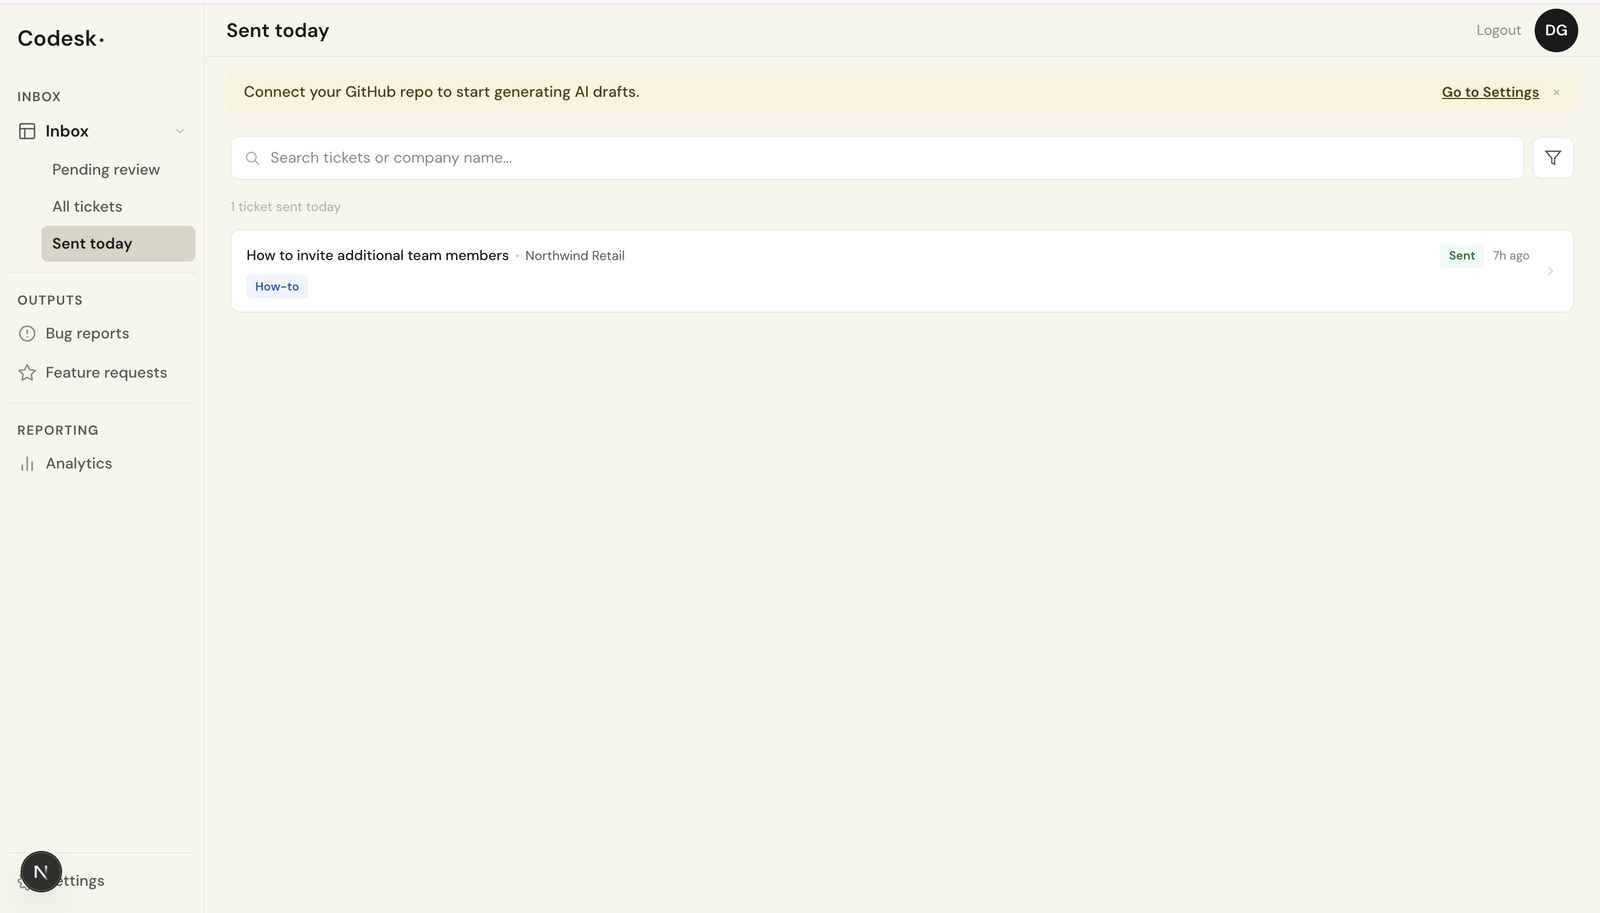
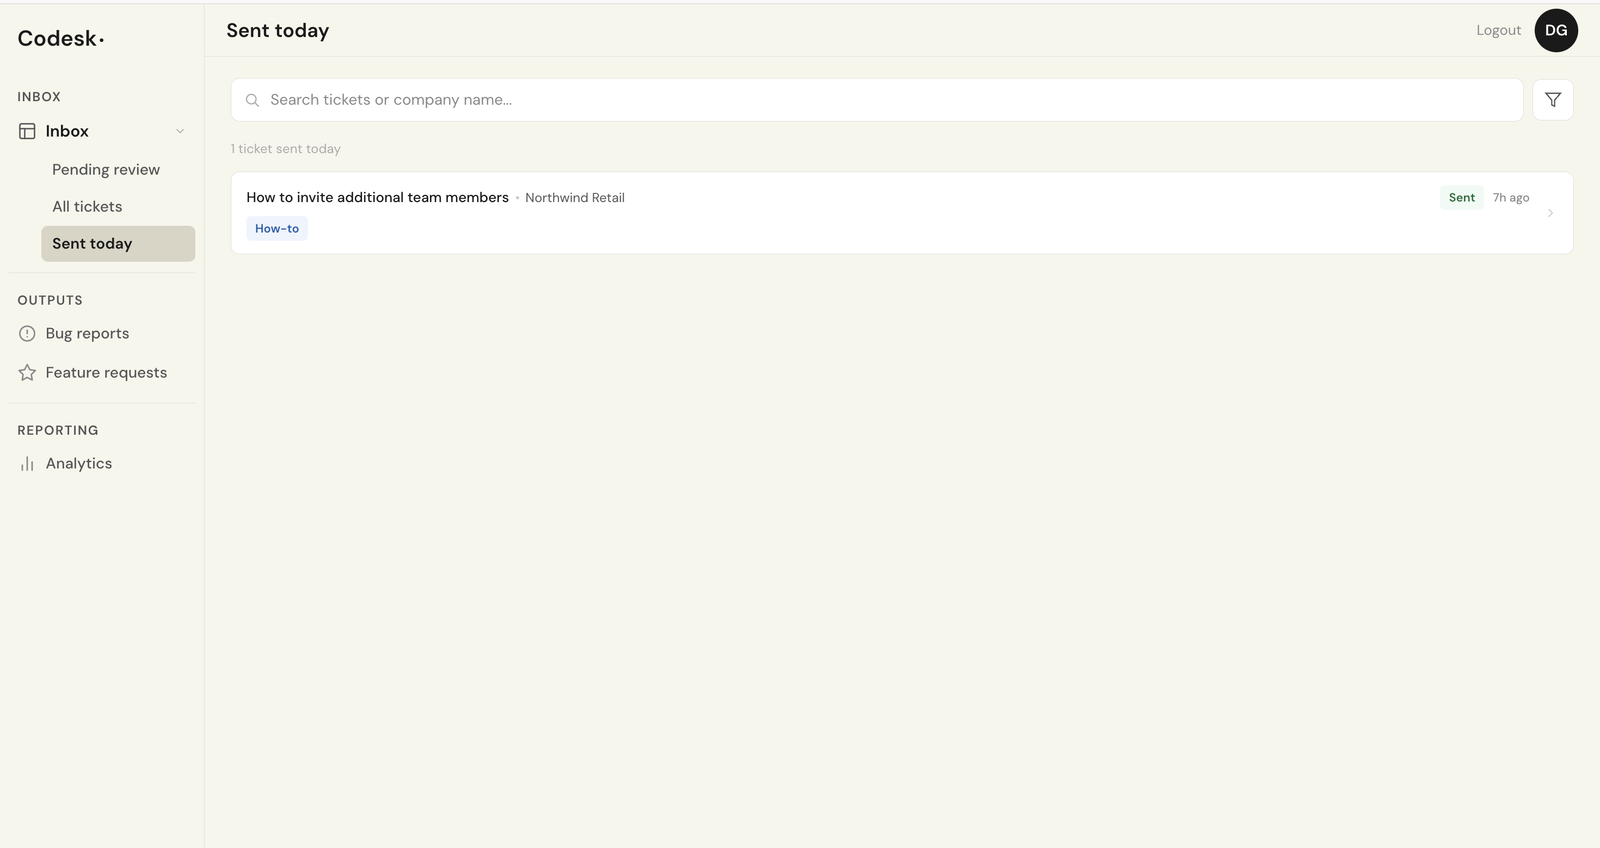
Rewrite landing README: security section, architecture, roadmap; clean up screenshots

diff --git a/README.md b/README.md
@@ -1,11 +1,13 @@
 # Codesk
 
-**AI-native helpdesk for early-stage B2B SaaS.** One person runs customer
-support for an entire company — Codesk drafts every reply, a human approves
-it, nothing goes out without sign-off.
+**AI-native helpdesk for early-stage B2B SaaS.** Codesk reads your codebase
+and docs, drafts a reply to every support ticket, and shows you exactly which
+files it used. You review, edit if needed, and approve. One person can run
+support for the whole company.
 
-<sub>Screens below are from the running app, using a demo workspace with
-seeded, fictional customers.</sub>
+<sub>Screens below are from the running app, using a demo workspace for a
+fictional company ("Pulse") with seeded, fictional customers. Development-mode
+overlays were cropped out.</sub>
 
 ---
 
@@ -13,58 +15,92 @@ seeded, fictional customers.</sub>
 
 Support at an early-stage SaaS company is repetitive in a way that's hard to
 template: the same handful of question types, answered by digging through
-your own codebase and docs every time. A generic AI chatbot can't do this —
-it doesn't know your product. Codesk is built specifically to read *your*
-codebase and docs, so the drafts it writes are grounded in what your product
-actually does.
+your own code and docs every time. A generic AI chatbot can't do this,
+because it doesn't know your product. Codesk is built to read *your*
+codebase, so its drafts are grounded in what your product actually does, and
+every draft shows its sources so you can check it in seconds.
 
 ## How it works
 
+```mermaid
+flowchart LR
+    A[Customer email] --> B[Postmark inbound]
+    B --> C[Ticket created]
+    C --> D[BullMQ job]
+    D --> E[Embed ticket]
+    E --> F[pgvector search<br/>over your code + docs]
+    F --> G[Claude: classify + draft<br/>with citations]
+    G --> H[Human review]
+    H -->|Approve| I[Reply sent via Postmark]
+    H -->|Edit| I
+    H -->|Reject| J[Manual reply]
+```
+
 ### 1. Connect your GitHub repo
 
-Read-only OAuth. Codesk ingests and chunks your codebase and docs into a
-searchable knowledge base. The same settings page gives you an inbound
-address to forward your support email to, and lets you set the reply-to
-address customers see.
+Codesk crawls the repository and splits it into a searchable knowledge base:
+source code, markdown docs, and GitHub Issues. Code is split along real
+boundaries (functions, classes) using tree-sitter, not cut into fixed-size
+blocks, so each chunk is a piece of code that makes sense on its own.
 
-<img src="assets/settings-github-connect.png" alt="Settings page with the Connect GitHub repo button and inbound email forwarding address" width="100%">
+The same page gives you an inbound address like
+`yourcompany@inbound.codesk.com`. Forward your existing support inbox to it
+and you're done. No DNS or MX changes. You also set the reply-to address
+customers see.
+
+<img src="assets/settings-github-connect.png" alt="Settings page with the Connect GitHub repo button and the inbound email forwarding address" width="100%">
 
 ### 2. A customer emails support
 
-An inbound webhook turns each email into a ticket automatically — no manual
-entry. Every ticket is classified by type (bug, how-to, feature request) and
-tracked by status, so the inbox shows what needs attention at a glance.
+Each forwarded email becomes a ticket automatically. Drafting runs in a
+background queue, so intake stays fast and a slow model call never drops an
+email.
 
 <img src="assets/inbox-all-tickets.png" alt="All tickets view showing seven tickets with type tags (Bug, How-to, Feature request) and statuses (Open, Awaiting Reply, Approved, Sent, Resolved)" width="100%">
 
 ### 3. Codesk drafts a reply
 
-The ticket is embedded, matched against your codebase via vector similarity
-search, and handed to Claude to draft a reply grounded in what it found.
-Every draft lists the exact source files and line ranges it drew on, with a
-match score for each, so the reviewer can check the answer against the code
-instead of taking it on trust.
+The ticket is embedded and matched against your knowledge base with vector
+similarity search. The closest chunks go to Claude, which does two things:
+
+- **Classifies the ticket** (bug, how-to, feature request). This happens
+  *after* retrieval, so the classification is informed by your actual code,
+  not just the wording of the email.
+- **Drafts the reply**, citing the exact files and line ranges it drew on.
+
+Each source shows a match score (how closely that chunk matched the ticket),
+so a weak or missing source is visible before anything goes out.
 
 <img src="assets/draft-review.png" alt="Ticket detail: the customer's original email on the left, the AI draft reply on the right, with sources src/webhooks/signature.util.ts lines 14–32 and CHANGELOG.md lines 5–18 listed underneath" width="100%">
 
 ### 4. A human reviews it
 
-The original email and the AI draft sit side by side. **Approve & send**,
-**Edit draft**, or **Reject** — one click each. Tickets that shouldn't get
-an AI answer can be handled with a plain manual reply instead.
+The original email and the draft sit side by side. **Approve & send**,
+**Edit draft**, or **Reject**, one click each. Tickets that shouldn't get an
+AI answer can be handled with a plain manual reply.
 
-<img src="assets/draft-review.gif" alt="Opening a pending ticket, editing the AI draft, then approving it — the ticket leaves the pending-review queue" width="100%">
+<img src="assets/draft-review.gif" alt="Opening a pending ticket, editing the AI draft, then approving it. The ticket leaves the pending-review queue" width="100%">
 
 ### 5. The reply sends
 
-Only after approval. Tickets move through a clear lifecycle — open, pending
-review, approved, sent, resolved — so nothing falls through the cracks, and
-**Sent today** shows everything that went out.
+Only after approval. Every ticket moves through one lifecycle:
+
+| Status | Meaning |
+|---|---|
+| **Open** | New ticket, no draft yet |
+| **Awaiting Reply** | Draft is ready and waiting for your review |
+| **Approved** | You approved the draft |
+| **Sent** | Reply delivered to the customer |
+| **Resolved** | Closed |
+
+**Pending review** collects everything that needs you, and **Sent today**
+shows everything that went out.
 
 <img src="assets/inbox-sent-today.png" alt="Sent today view listing one sent how-to ticket" width="100%">
 
-> **Nothing sends without a human in the loop. That's a permanent design
-> constraint, not a v1 limitation.**
+> **Human approval is the default.** Nothing sends without sign-off today.
+> Automation expands only when you choose to turn it up, one ticket type at a
+> time, as the drafts earn your trust.
 
 <details>
 <summary>Sign-up and sign-in</summary>
@@ -81,28 +117,73 @@ A workspace is one form: company name, your name, work email, password.
 
 </details>
 
+## Security and your code
+
+Giving a tool access to your codebase is a real decision, so here is
+exactly what happens:
+
+- **Codesk only reads your repository.** It doesn't commit, push, or open
+  pull requests.
+- **Your GitHub token is encrypted at rest** (AES-256-GCM).
+- **What leaves your repo:** code and doc chunks are sent to OpenAI to create
+  embeddings, and the chunks relevant to a ticket are sent to Anthropic
+  (Claude) to write the draft. Under their standard API terms, neither
+  provider trains on this data.
+- **Tenant isolation:** every table is scoped by tenant ID first, and every
+  query, including the vector search, filters on it. One workspace's code
+  and tickets are never searched on behalf of another.
+- **Sessions:** server-side sessions stored in Postgres with httpOnly
+  cookies, not JWTs in the browser.
+- **Deletion:** email us and we'll delete your workspace, its index, and its
+  tickets.
+
+**Can't send code to a cloud service at all?** We're designing a
+self-hosted mode where indexing and search run inside your own environment
+and only the minimum context needed for a draft leaves it. If that's you,
+we'd like to talk.
+
 ## Under the hood
 
 | Layer | Stack |
 |---|---|
 | Backend | NestJS · Prisma 6 · PostgreSQL 16 + pgvector |
 | Frontend | Next.js 15 (App Router) · Tailwind |
-| AI drafting | Claude Sonnet |
-| Retrieval | OpenAI `text-embedding-3-small`, vector similarity search over ingested code + docs |
+| AI drafting + classification | Claude Sonnet |
+| Retrieval | OpenAI `text-embedding-3-small` · pgvector similarity search · tree-sitter code chunking |
 | Async processing | BullMQ + Redis |
 | Email | Postmark (inbound parsing + outbound sending) |
-| Auth | Server-side sessions (Postgres-backed, not JWT), per-tenant isolation enforced at the query layer |
+| Auth | Server-side sessions (Postgres-backed, not JWT) |
 
-Multi-tenant from the ground up — every table is scoped by tenant first, not
-derived through joins, so one customer's data is never reachable from
-another's session.
+A few design choices that matter for where this is going:
+
+- **The AI's original draft is never overwritten.** Each draft stores the
+  model's original text and the final text you approved separately. Your
+  edits become the training signal that makes future drafts better.
+- **Citations are first-class data**, stored in their own table and
+  versioned when a draft is regenerated, so the sources shown always match
+  the draft you're reading.
+
+## What's built and what's next
+
+**Working today:** GitHub ingestion · email intake by forwarding · ticket
+classification · cited draft replies · review, edit and approve · reply
+sending · ticket lifecycle and inbox views.
+
+**Next:**
+- Automatic re-indexing on every push (today the repo is indexed when you
+  connect it)
+- Low-confidence flagging when retrieval finds nothing strong
+- Bug reports and feature-request views (already in the sidebar) that group
+  related tickets
+- Suggested fix PRs generated from bug tickets, always reviewed by a human
+- Self-hosted mode for teams that can't share code with a cloud service
 
 ## Who it's for
 
 - Founders doing their own customer support at 2–8 person teams
-- Solo CS hires drowning in ticket volume at Series A companies
+- Solo support hires drowning in ticket volume at Series A companies
 
-## Pricing
+## Pricing (planned)
 
 | Plan | Price |
 |---|---|
@@ -110,15 +191,21 @@ another's session.
 | Growth | $399/mo |
 | Scale | Custom |
 
-## Status
+Early design partners get founder pricing.
 
-In active development. Currently onboarding early customers before opening
-up more broadly.
+## Team
+
+- **Chetan** (backend)
+- **Darshitha** (frontend)
+- **Tejaswini** (product and full-stack)
 
 ## Interested?
 
-The codebase is private while we build with early customers — this repo is
-just the front door. If you want early access, a demo, or want to talk about
-how it's built, reach out:
+We're looking for our first design partners: early-stage B2B SaaS teams
+where one or two people handle all of support. The codebase is private while
+we build. This repo is the front door.
+
+For early access, a live demo on your own repo, or to talk about how it's
+built:
 
 **darshithagongle@gmail.com**
